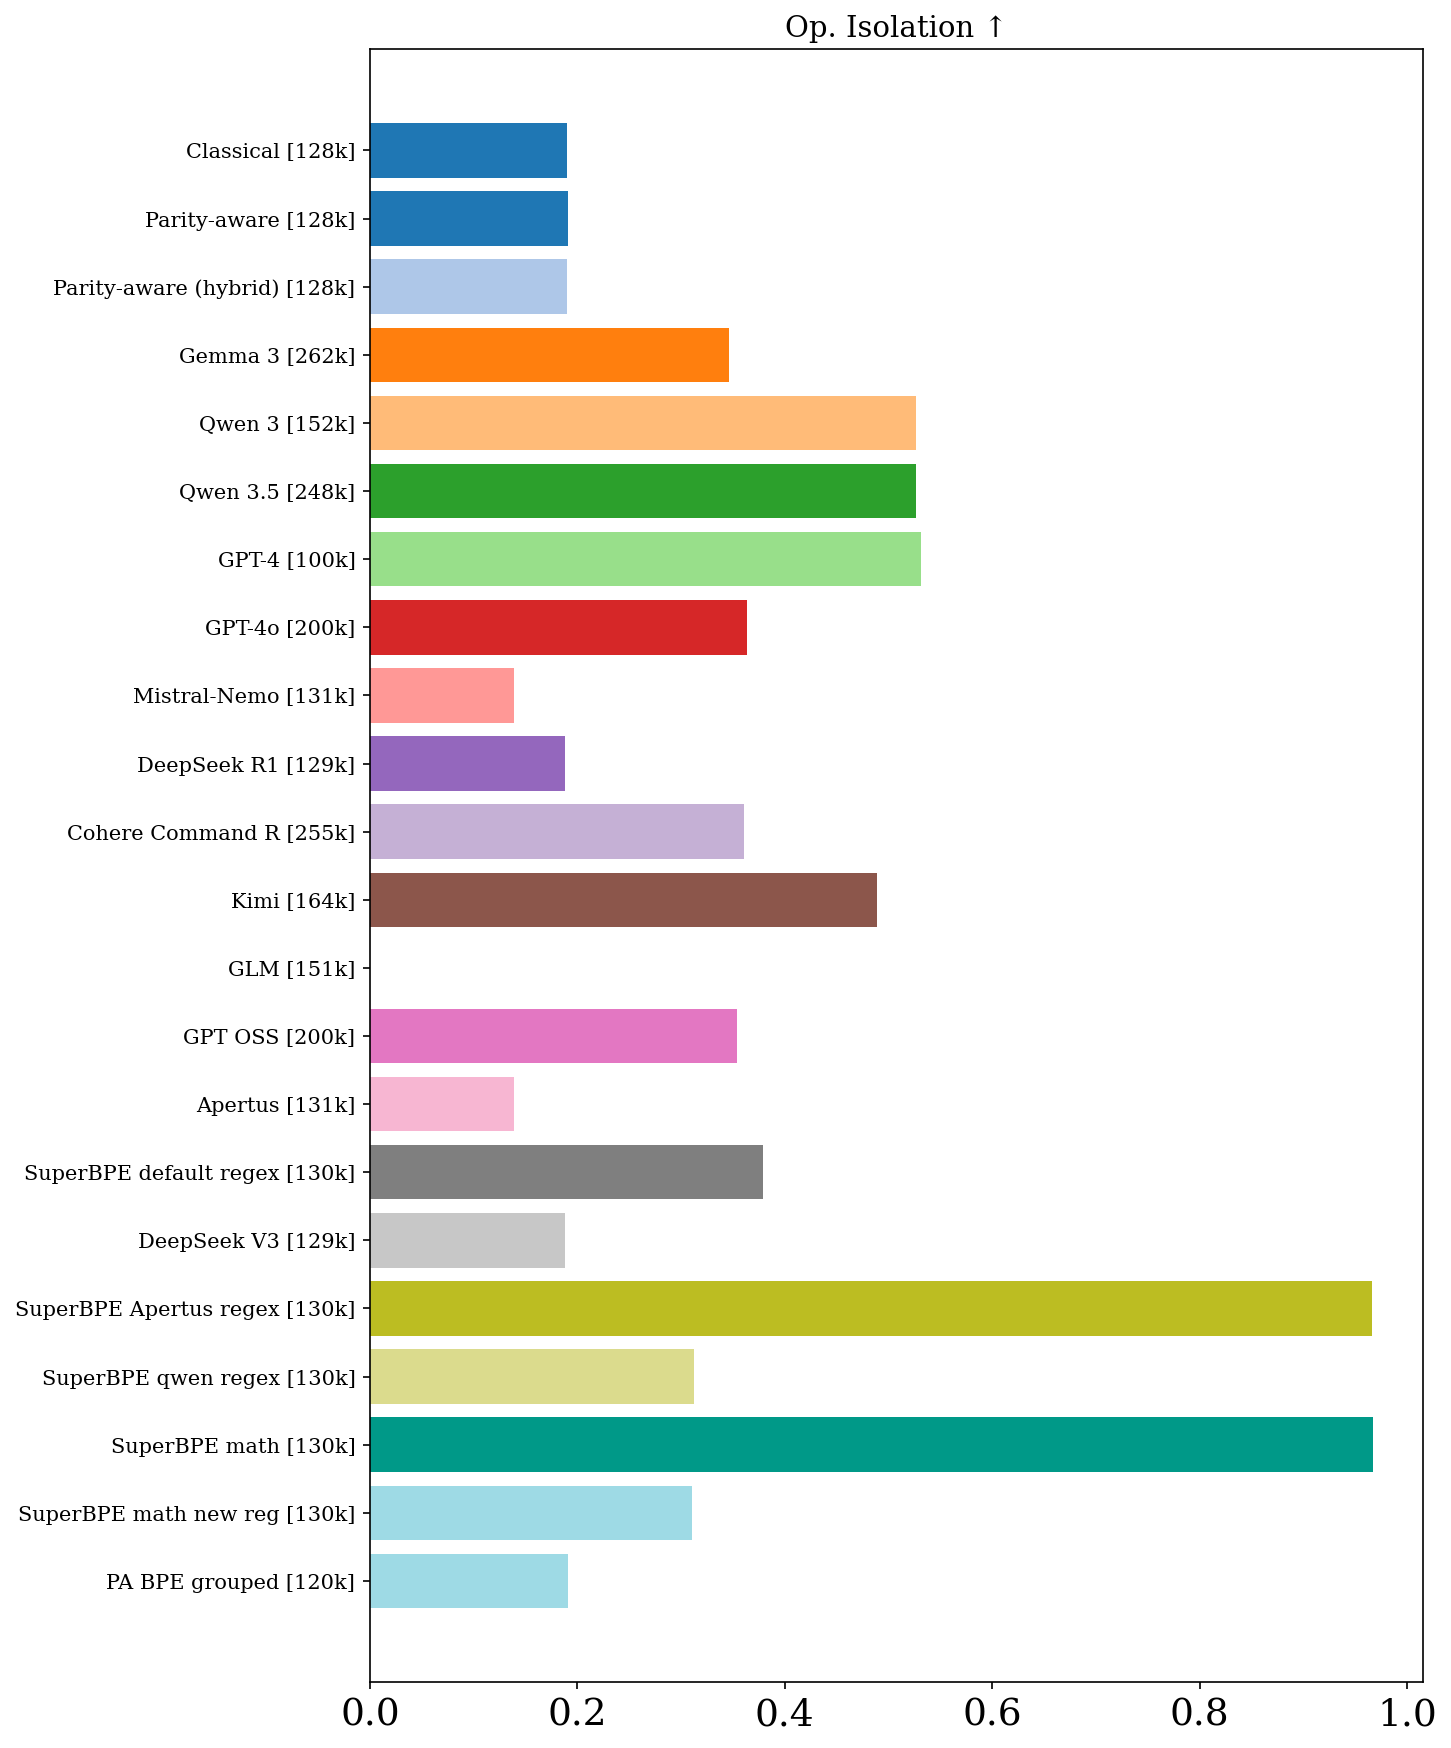
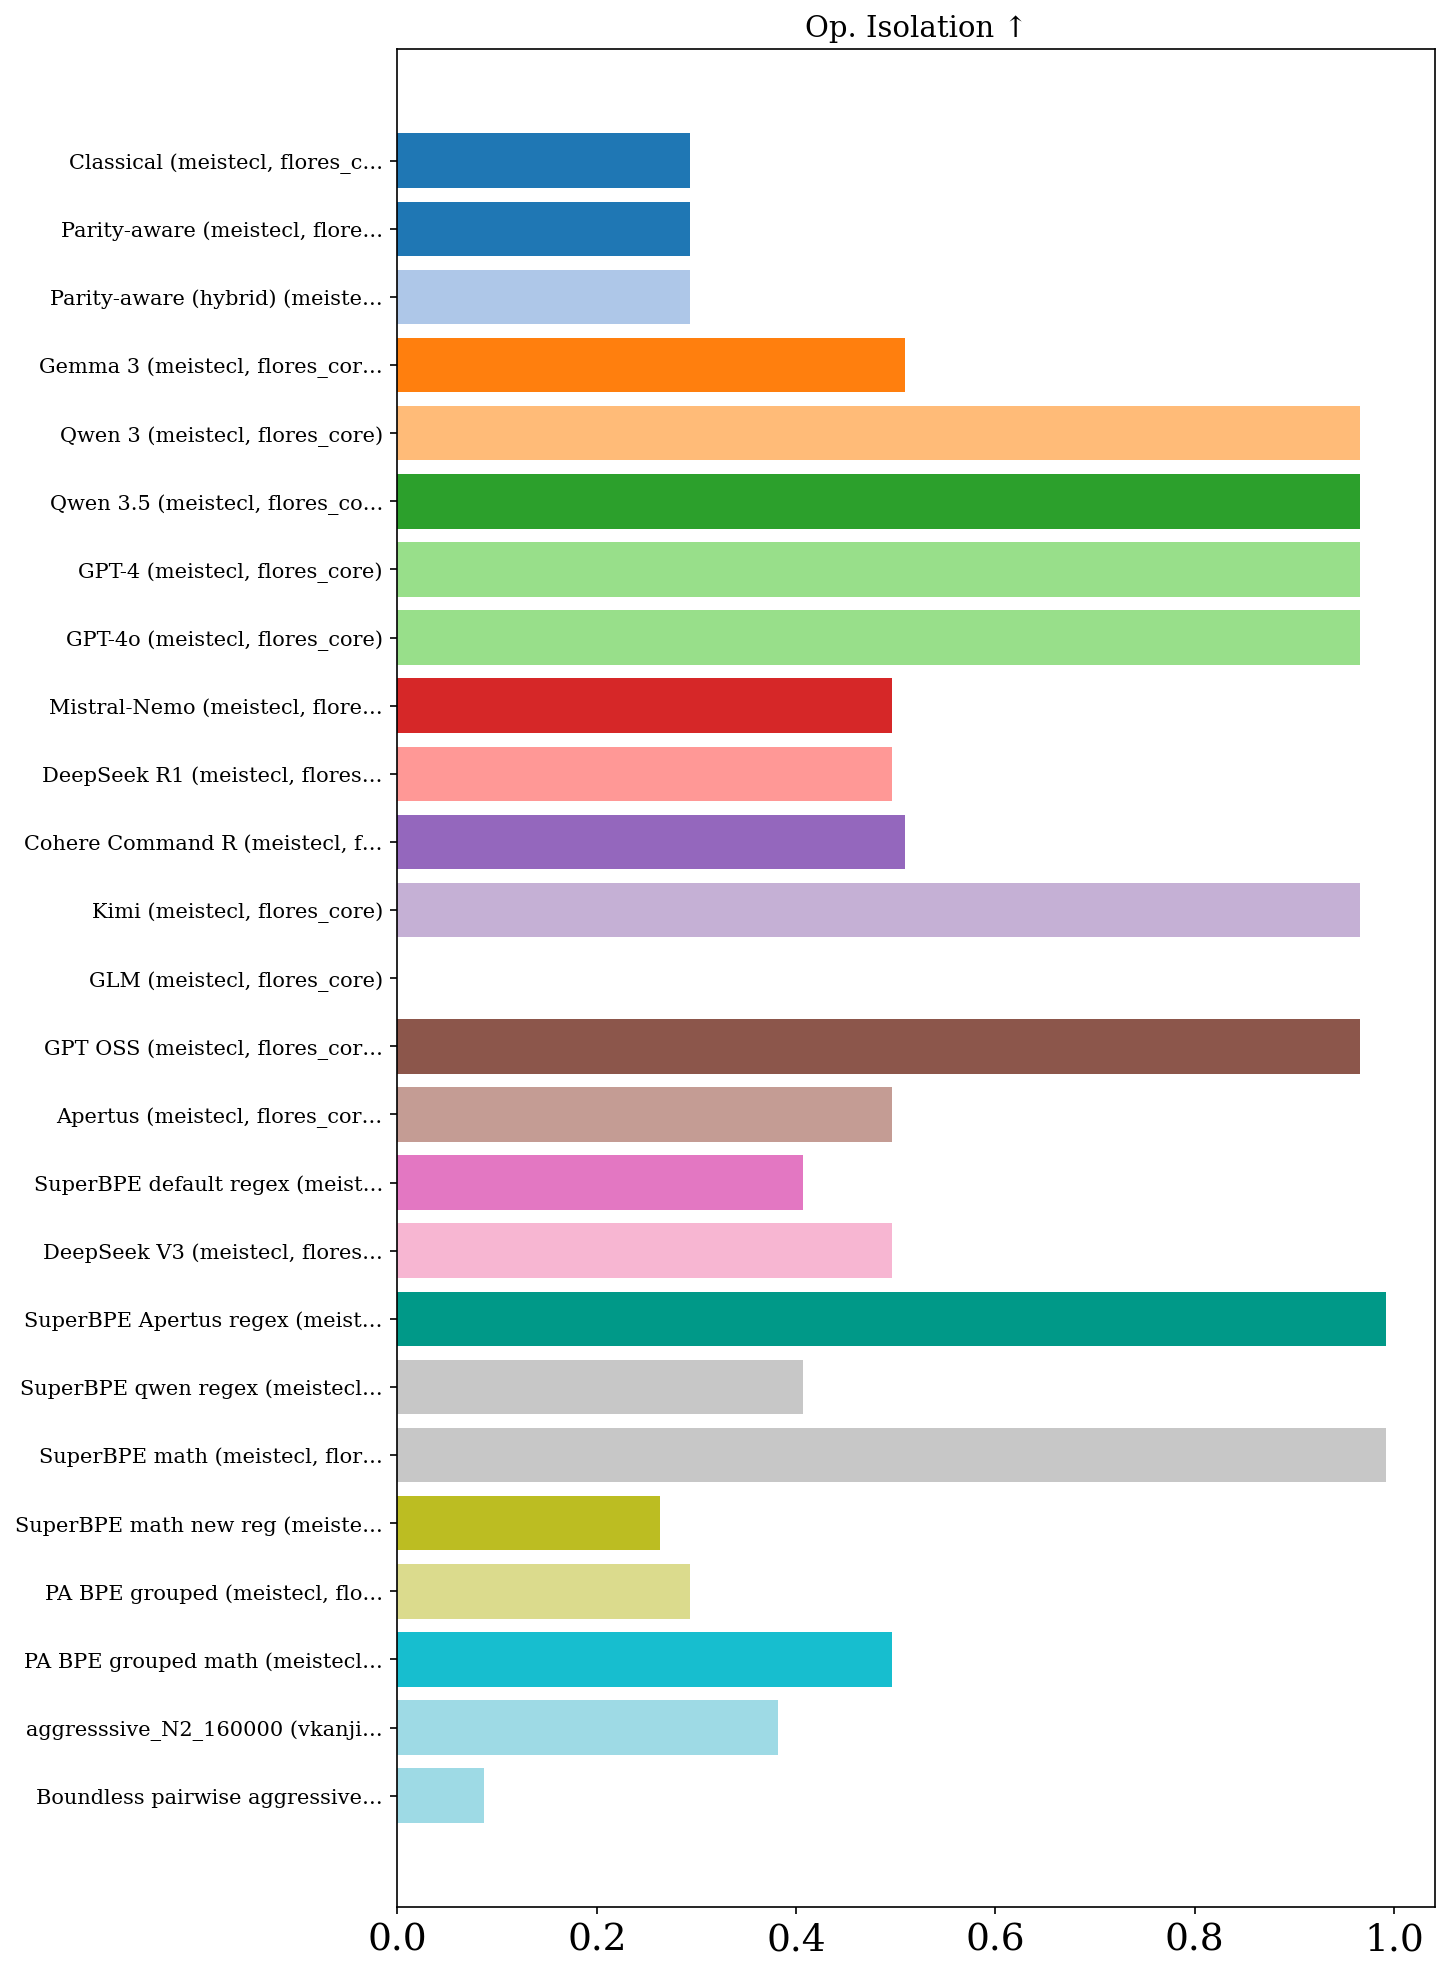
Update RESULTS_flores_core_lines.md (2026-03-03 12:19:02)

diff --git a/RESULTS_flores_core_lines.md b/RESULTS_flores_core_lines.md
@@ -1,31 +1,32 @@
 # Tokenizer Evaluation Results
 
-_Last updated: 2026-03-02 07:37:03_
+_Last updated: 2026-03-03 12:19:04_
 
 | Tokenizer | Vocab Size | Fertility ↓ | Compression Rate ↑ | Vocab Util. ↑ | Avg Token Rank ↓ | Gini ↓ | 3-Digit Align. F1 ↑ | Op. Isolation ↑ | AST Align. ↑ | Ident. Frag. ↓ | Depth Corr. ↑ | Pat. Stability ↑ | Bound. Cross ↓ | Char Split ↓ | Languages | Dataset | User | Date |
 | --- | --- | --- | --- | --- | --- | --- | --- | --- | --- | --- | --- | --- | --- | --- | --- | --- | --- | --- |
-| Classical (meistecl, flores_core) | 128,004 | 36.127 | 0.031 | 0.369 | 6524.2 | 0.049 | 0.779 | 0.190 | 0.148 | 0.055 | **0.000** | **1.000** | 0.0033 | 0.0052 | 13 | flores_core | meistecl | 2026-03-01 |
-| Parity-aware (meistecl, flores_core) | 128,004 | 38.139 | 0.029 | 0.322 | 5367.5 | **0.012** | 0.742 | 0.191 | 0.188 | 0.082 | 0.000 | 1.000 | 0.0037 | 0.0058 | 13 | flores_core | meistecl | 2026-03-01 |
-| Parity-aware (hybrid) (meistecl, flores_core) | 128,004 | 37.385 | 0.030 | 0.330 | 5693.5 | 0.028 | 0.753 | 0.190 | 0.160 | 0.066 | 0.000 | 1.000 | 0.0036 | 0.0057 | 13 | flores_core | meistecl | 2026-03-01 |
-| Gemma 3 (meistecl, flores_core) | 262,145 | 34.075 | 0.033 | 0.217 | 7779.7 | 0.054 | 0.446 | 0.346 | 0.088 | 0.030 | -0.113 | 0.966 | 0.0426 | 0.0062 | 13 | flores_core | meistecl | 2026-03-01 |
-| Qwen 3 (meistecl, flores_core) | 151,669 | 44.867 | 0.029 | 0.228 | 3303.4 | 0.181 | 0.379 | 0.527 | 0.605 | 0.383 | 0.000 | 1.000 | 0.0513 | 0.0759 | 13 | flores_core | meistecl | 2026-03-01 |
-| Qwen 3.5 (meistecl, flores_core) | 248,077 | 33.854 | **0.035** | 0.234 | 7687.9 | 0.099 | 0.379 | 0.527 | **0.680** | 0.381 | 0.000 | 1.000 | 0.0009 | 0.0021 | 13 | flores_core | meistecl | 2026-03-01 |
-| GPT-4 (meistecl, flores_core) | 100,261 | 55.839 | 0.023 | 0.192 | 1391.9 | 0.204 | 0.760 | 0.531 | 0.610 | 0.434 | 0.000 | 1.000 | 0.0510 | 0.1586 | 13 | flores_core | meistecl | 2026-03-01 |
-| GPT-4o (meistecl, flores_core) | 200,000 | 36.773 | 0.031 | 0.226 | 5833.0 | 0.059 | 0.756 | 0.364 | 0.615 | 0.450 | 0.000 | 1.000 | 0.0089 | 0.0130 | 13 | flores_core | meistecl | 2026-03-01 |
-| Mistral-Nemo (meistecl, flores_core) | 131,072 | 37.419 | 0.031 | 0.341 | 5610.9 | 0.069 | 0.379 | 0.139 | 0.060 | 0.037 | 0.000 | 1.000 | 0.0014 | 0.0119 | 13 | flores_core | meistecl | 2026-03-01 |
-| DeepSeek R1 (meistecl, flores_core) | 128,815 | 41.449 | 0.029 | 0.285 | 3944.5 | 0.136 | 0.779 | 0.188 | 0.000 | --- | 0.000 | 1.000 | 0.0071 | 0.0126 | 13 | flores_core | meistecl | 2026-03-01 |
-| Cohere Command R (meistecl, flores_core) | 255,029 | 36.519 | 0.033 | 0.233 | 7108.9 | 0.144 | 0.379 | 0.361 | 0.032 | 0.016 | 0.000 | 1.000 | 0.0005 | 0.0004 | 13 | flores_core | meistecl | 2026-03-01 |
-| Kimi (meistecl, flores_core) | 163,840 | 45.112 | 0.027 | 0.173 | 2588.9 | 0.137 | 0.779 | 0.489 | 0.609 | 0.408 | 0.000 | 1.000 | 0.0116 | 0.0252 | 13 | flores_core | meistecl | 2026-03-01 |
-| GLM (meistecl, flores_core) | 151,343 | 46.472 | 0.027 | 0.251 | 3402.5 | 0.197 | 0.270 | 0.000 | 0.001 | **0.000** | 0.000 | 1.000 | **0.0000** | **0.0000** | 13 | flores_core | meistecl | 2026-03-01 |
-| GPT OSS (meistecl, flores_core) | 200,019 | 34.730 | 0.033 | 0.245 | 6659.5 | 0.065 | 0.779 | 0.354 | 0.609 | 0.401 | 0.000 | 1.000 | 0.0019 | 0.0059 | 13 | flores_core | meistecl | 2026-03-01 |
-| Apertus (meistecl, flores_core) | 131,072 | 37.419 | 0.031 | 0.341 | 5610.9 | 0.069 | 0.379 | 0.139 | 0.060 | 0.037 | 0.000 | 1.000 | 0.0014 | 0.0119 | 13 | flores_core | meistecl | 2026-03-01 |
-| SuperBPE default regex (meistecl, flores_core) | 130,000 | 40.307 | 0.028 | 0.241 | 4421.4 | 0.069 | 0.779 | 0.379 | 0.225 | 0.028 | 0.000 | 1.000 | 0.0050 | 0.0205 | 13 | flores_core | meistecl | 2026-03-01 |
-| DeepSeek V3 (meistecl, flores_core) | 128,815 | 41.449 | 0.029 | 0.285 | 3944.5 | 0.136 | 0.779 | 0.188 | 0.000 | --- | 0.000 | 1.000 | 0.0071 | 0.0126 | 13 | flores_core | meistecl | 2026-03-01 |
-| SuperBPE Apertus regex (meistecl, flores_core) | 130,000 | 42.557 | 0.028 | 0.253 | 4104.3 | 0.122 | 0.779 | 0.966 | 0.259 | 0.029 | 0.000 | 1.000 | 0.0038 | 0.0156 | 13 | flores_core | meistecl | 2026-03-01 |
-| SuperBPE qwen regex (meistecl, flores_core) | 130,000 | 42.575 | 0.027 | 0.280 | 5048.7 | 0.059 | 0.379 | 0.312 | 0.284 | 0.024 | 0.000 | 1.000 | 0.0047 | 0.0196 | 13 | flores_core | meistecl | 2026-03-01 |
-| SuperBPE math (meistecl, flores_core) | 130,000 | 43.112 | 0.028 | 0.254 | 3831.6 | 0.131 | 0.779 | **0.967** | 0.264 | 0.028 | 0.000 | 1.000 | 0.0047 | 0.0193 | 13 | flores_core | meistecl | 2026-03-01 |
-| SuperBPE math new reg (meistecl, flores_core) | 130,000 | 40.223 | 0.029 | 0.258 | 4403.1 | 0.085 | **0.953** | 0.311 | 0.230 | 0.027 | 0.000 | 1.000 | 0.0061 | 0.0247 | 13 | flores_core | meistecl | 2026-03-01 |
-| PA BPE grouped (meistecl, flores_core) | 120,260 | 45.497 | 0.025 | 0.199 | 2898.5 | 0.073 | 0.712 | 0.191 | 0.159 | 0.067 | 0.000 | 1.000 | 0.0105 | 0.0415 | 13 | flores_core | meistecl | 2026-03-01 |
+| Classical (meistecl, flores_core) | 128,004 | 36.127 | 0.031 | 0.369 | 6524.2 | 0.049 | 0.789 | 0.294 | 0.148 | 0.055 | -0.049 | 0.991 | 0.0033 | 0.0052 | 13 | flores_core | meistecl | 2026-03-03 |
+| Parity-aware (meistecl, flores_core) | 128,004 | 38.139 | 0.029 | 0.322 | 5367.5 | **0.012** | 0.736 | 0.294 | 0.188 | 0.082 | -0.049 | 0.991 | 0.0037 | 0.0058 | 13 | flores_core | meistecl | 2026-03-03 |
+| Parity-aware (hybrid) (meistecl, flores_core) | 128,004 | 37.385 | 0.030 | 0.330 | 5693.5 | 0.028 | 0.771 | 0.294 | 0.160 | 0.066 | -0.049 | 0.991 | 0.0036 | 0.0057 | 13 | flores_core | meistecl | 2026-03-03 |
+| Gemma 3 (meistecl, flores_core) | 262,145 | 34.075 | 0.033 | 0.217 | 7779.7 | 0.054 | 0.451 | 0.509 | 0.088 | 0.030 | -0.091 | 0.965 | 0.0426 | 0.0062 | 13 | flores_core | meistecl | 2026-03-03 |
+| Qwen 3 (meistecl, flores_core) | 151,669 | 44.867 | 0.029 | 0.228 | 3303.4 | 0.181 | 0.451 | 0.966 | 0.605 | 0.383 | -0.037 | 0.994 | 0.0513 | 0.0759 | 13 | flores_core | meistecl | 2026-03-03 |
+| Qwen 3.5 (meistecl, flores_core) | 248,077 | 33.854 | **0.035** | 0.234 | 7687.9 | 0.099 | 0.451 | 0.966 | **0.680** | 0.381 | -0.037 | 0.994 | 0.0009 | 0.0021 | 13 | flores_core | meistecl | 2026-03-03 |
+| GPT-4 (meistecl, flores_core) | 100,261 | 54.722 | 0.024 | 0.206 | 1484.8 | 0.215 | 0.793 | 0.966 | 0.605 | 0.383 | -0.037 | 0.994 | 0.0503 | 0.1559 | 13 | flores_core | meistecl | 2026-03-03 |
+| GPT-4o (meistecl, flores_core) | 200,000 | 34.730 | 0.033 | 0.245 | 6659.5 | 0.065 | 0.793 | 0.966 | 0.609 | 0.401 | -0.037 | 0.994 | 0.0019 | 0.0059 | 13 | flores_core | meistecl | 2026-03-03 |
+| Mistral-Nemo (meistecl, flores_core) | 131,072 | 37.419 | 0.031 | 0.341 | 5610.9 | 0.069 | 0.451 | 0.496 | 0.060 | 0.037 | -0.037 | 0.994 | 0.0014 | 0.0119 | 13 | flores_core | meistecl | 2026-03-03 |
+| DeepSeek R1 (meistecl, flores_core) | 128,815 | 41.449 | 0.029 | 0.285 | 3944.5 | 0.136 | 0.793 | 0.496 | 0.000 | --- | -0.037 | 0.994 | 0.0071 | 0.0126 | 13 | flores_core | meistecl | 2026-03-03 |
+| Cohere Command R (meistecl, flores_core) | 255,029 | 36.519 | 0.033 | 0.233 | 7108.9 | 0.144 | 0.451 | 0.509 | 0.032 | 0.016 | -0.037 | 0.994 | 0.0005 | 0.0004 | 13 | flores_core | meistecl | 2026-03-03 |
+| Kimi (meistecl, flores_core) | 163,840 | 45.112 | 0.027 | 0.173 | 2588.9 | 0.137 | 0.793 | 0.966 | 0.609 | 0.408 | -0.037 | 0.994 | 0.0116 | 0.0252 | 13 | flores_core | meistecl | 2026-03-03 |
+| GLM (meistecl, flores_core) | 151,343 | 46.472 | 0.027 | 0.251 | 3402.5 | 0.197 | 0.644 | 0.000 | 0.001 | **0.000** | **0.000** | **1.000** | **0.0000** | **0.0000** | 13 | flores_core | meistecl | 2026-03-03 |
+| GPT OSS (meistecl, flores_core) | 200,019 | 34.730 | 0.033 | 0.245 | 6659.5 | 0.065 | 0.793 | 0.966 | 0.609 | 0.401 | -0.037 | 0.994 | 0.0019 | 0.0059 | 13 | flores_core | meistecl | 2026-03-03 |
+| Apertus (meistecl, flores_core) | 131,072 | 37.419 | 0.031 | 0.341 | 5610.9 | 0.069 | 0.451 | 0.496 | 0.060 | 0.037 | -0.037 | 0.994 | 0.0014 | 0.0119 | 13 | flores_core | meistecl | 2026-03-03 |
+| SuperBPE default regex (meistecl, flores_core) | 130,000 | 40.307 | 0.028 | 0.241 | 4421.4 | 0.069 | 0.793 | 0.407 | 0.225 | 0.028 | -0.037 | 0.994 | 0.0050 | 0.0205 | 13 | flores_core | meistecl | 2026-03-03 |
+| DeepSeek V3 (meistecl, flores_core) | 128,815 | 41.449 | 0.029 | 0.285 | 3944.5 | 0.136 | 0.793 | 0.496 | 0.000 | --- | -0.037 | 0.994 | 0.0071 | 0.0126 | 13 | flores_core | meistecl | 2026-03-03 |
+| SuperBPE Apertus regex (meistecl, flores_core) | 130,000 | 42.557 | 0.028 | 0.253 | 4104.3 | 0.122 | 0.793 | **0.992** | 0.259 | 0.029 | -0.037 | 0.994 | 0.0038 | 0.0156 | 13 | flores_core | meistecl | 2026-03-03 |
+| SuperBPE qwen regex (meistecl, flores_core) | 130,000 | 42.575 | 0.027 | 0.280 | 5048.7 | 0.059 | 0.451 | 0.407 | 0.284 | 0.024 | -0.031 | 0.995 | 0.0047 | 0.0196 | 13 | flores_core | meistecl | 2026-03-03 |
+| SuperBPE math (meistecl, flores_core) | 130,000 | 43.112 | 0.028 | 0.254 | 3831.6 | 0.131 | 0.793 | 0.992 | 0.264 | 0.028 | -0.037 | 0.994 | 0.0047 | 0.0193 | 13 | flores_core | meistecl | 2026-03-03 |
+| SuperBPE math new reg (meistecl, flores_core) | 130,000 | 40.223 | 0.029 | 0.258 | 4403.1 | 0.085 | **0.891** | 0.263 | 0.230 | 0.027 | -0.037 | 0.994 | 0.0061 | 0.0247 | 13 | flores_core | meistecl | 2026-03-03 |
+| PA BPE grouped (meistecl, flores_core) | 120,260 | 45.497 | 0.025 | 0.199 | 2898.5 | 0.073 | 0.722 | 0.294 | 0.159 | 0.067 | -0.049 | 0.991 | 0.0105 | 0.0415 | 13 | flores_core | meistecl | 2026-03-03 |
+| PA BPE grouped math (meistecl, flores_core) | 128,260 | 47.921 | 0.025 | 0.196 | 2523.2 | 0.125 | 0.451 | 0.496 | 0.094 | 0.050 | -0.037 | 0.994 | 0.0074 | 0.1039 | 13 | flores_core | meistecl | 2026-03-03 |
 | Apertus_Coarse_Family (ayavuz, flores_core) | --- | 40.070 | 0.029 | 0.340 | --- | 0.103 | --- | --- | --- | --- | --- | --- | --- | --- | 13 | flores_core | ayavuz | 2026-02-21 |
 | Apertus_Fine_Family (ayavuz, flores_core) | --- | 40.619 | 0.029 | 0.336 | --- | 0.114 | --- | --- | --- | --- | --- | --- | --- | --- | 13 | flores_core | ayavuz | 2026-02-21 |
 | Apertus_Per_Lang (ayavuz, flores_core) | --- | 38.592 | 0.030 | 0.333 | --- | 0.083 | --- | --- | --- | --- | --- | --- | --- | --- | 13 | flores_core | ayavuz | 2026-02-21 |
